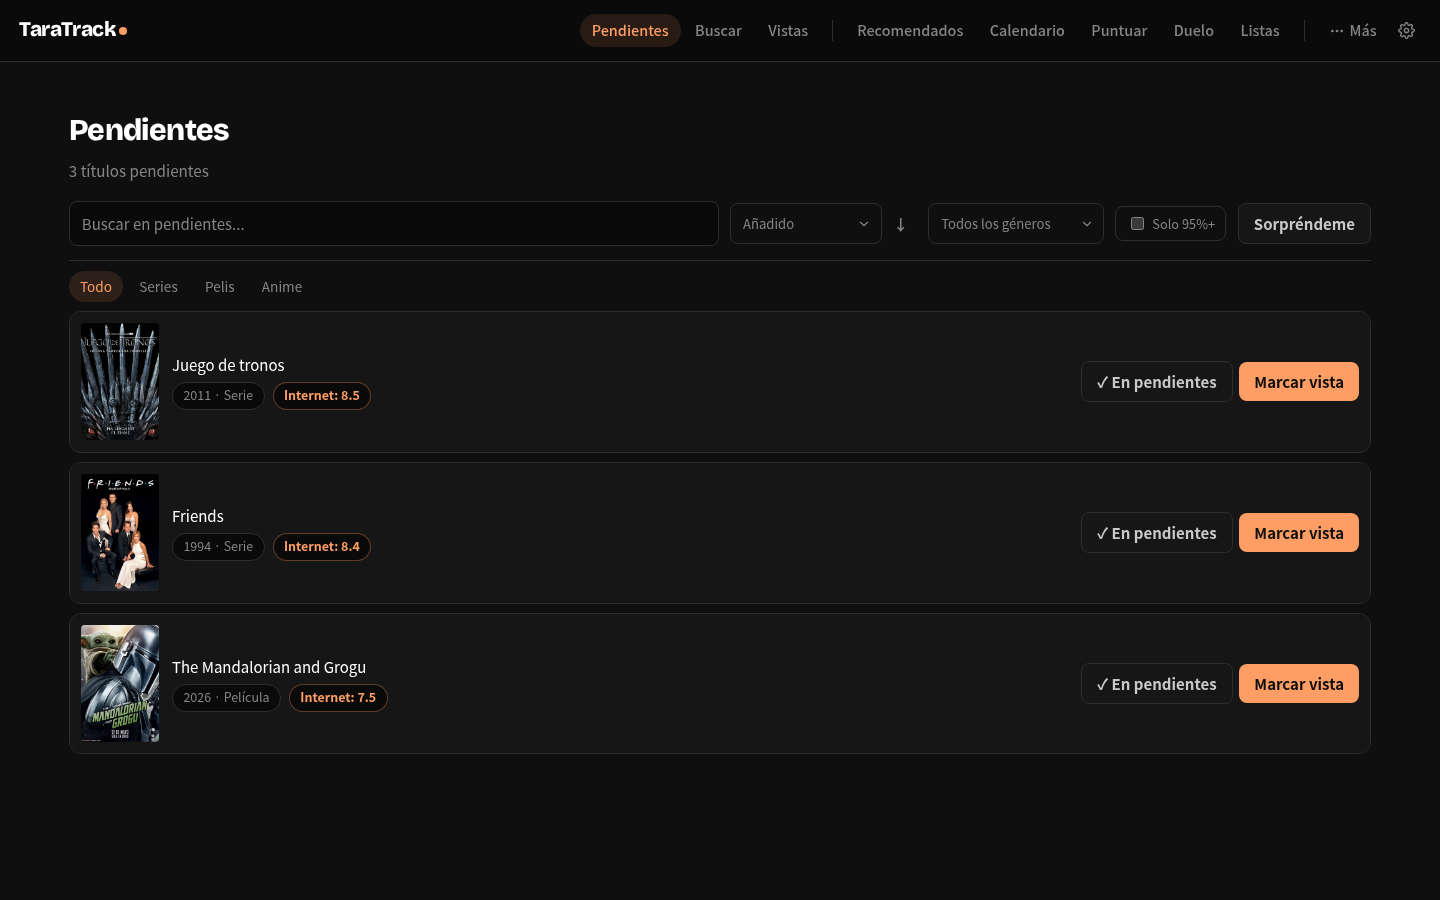
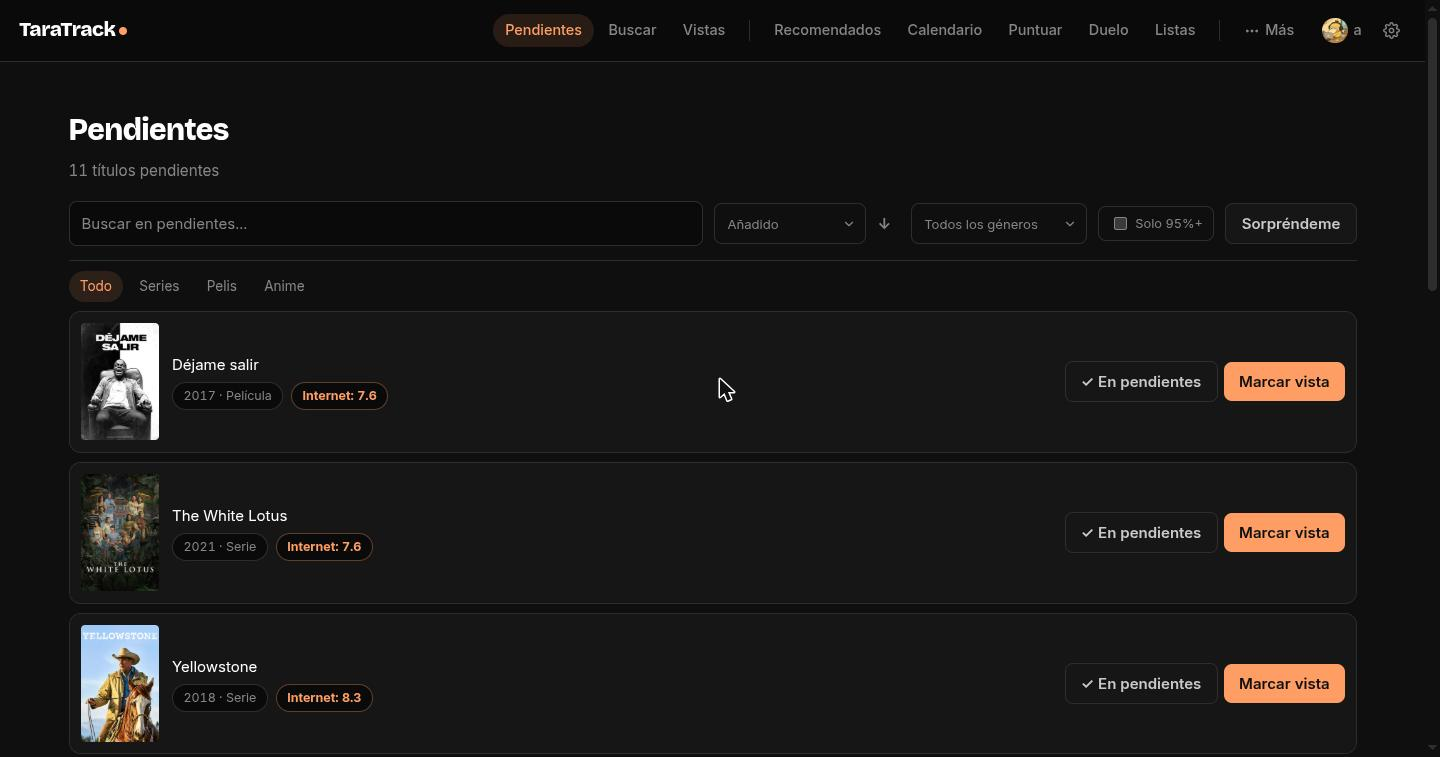
Readme ahora si que si pulido

diff --git a/README.md b/README.md
@@ -4,17 +4,18 @@
 
 No intenta ser otra base de datos de títulos: intenta entender qué te apetece de verdad, no solo qué has visto.
 
-Tracker personal autoalojado, sustituto propio de Trakt/TV Time — mi segundo proyecto de este verano (el primero fue [TarArch](https://github.com/Tara7ara/TarArch), mi escritorio Linux), en desarrollo activo desde hace varios meses. El historial de commits de este repo es reciente porque lo publico ahora, no porque se haya hecho en un día. FastAPI + Jinja2 + htmx + SQLite, server-rendered, sin build step de frontend.
+Tracker personal autoalojado, sustituto propio de Trakt/TV Time. FastAPI + Jinja2 + htmx + SQLite, server-rendered, sin build step de frontend.
 
 Los metadatos vienen de TMDB (y de Jikan/AniList para anime), pero en la base de datos solo se guarda lo que realmente sigues: lo pendiente, lo visto, tus notas, tus listas y tus personajes favoritos.
 
 ## Capturas
 
-_(biblioteca de ejemplo, no la real — ver "Índice de afinidad" más abajo para lo interesante de verdad)_
+_(biblioteca de ejemplo; no contiene datos personales)_
 
 ![Pendientes](screenshots/pendientes.png)
 ![Vistas](screenshots/vistas.png)
-![Perfil de gustos](screenshots/perfil-gustos.png)
+![Estadísticas](screenshots/estadisticas.png)
+![Duelo, con el fallback a toda la biblioteca en una cuenta sin anime](screenshots/duelo.png)
 
 ## Hecho para usarlo cada día
 
@@ -23,7 +24,7 @@ _(biblioteca de ejemplo, no la real — ver "Índice de afinidad" más abajo par
 - **Calendario de temporada con predicción propia**: todo el anime de la temporada, con un "% que te va a gustar" calculado desde tus notas — nunca desde la nota media de la crítica.
 - **Ranking por duelos con Glicko**, no un Elo de toda la vida: cada elemento lleva su propia incertidumbre, así que el ranking se afina más rápido con menos duelos.
 - **Multiusuario real**: cuentas aisladas de verdad, no una contraseña compartida con un "modo invitado".
-- **Autoalojado y privado**: tus datos no salen de tu servidor — TMDB/AniList/Jikan solo se consultan para traer metadatos.
+- **Autoalojado y privado**: tus datos personales no salen de tu servidor — TMDB/AniList/Jikan solo se consultan para traer metadatos.
 
 ## Arrancar en local
 
@@ -48,7 +49,7 @@ ruff check .
 
 - **Puntuación por categorías**: un "examen" corto (Historia, Animación, Personajes, Música, Disfrute) con pesos distintos por categoría en vez de un número suelto.
 - **Calendario semanal** estilo Trakt, con sincronización automática cada 12 h.
-- **"Volver a ver" sin perder nada**: sigues pudiendo ver cuándo lo viste la primera vez aunque lo estés reviendo.
+- **Listas ilimitadas**, con orden manual o por duelos (mismo motor Glicko que el ranking general).
 - **Autover**: series de muchos episodios que sigues sin pensarlo se marcan vistas solas.
 - **Personajes de anime reales, no actores**: para anime se tira de AniList/Jikan en vez del reparto de TMDB.
 - **Resumen anual** tipo "wrapped" y **discrepancias con la crítica** (tu nota vs. Internet).
@@ -85,7 +86,7 @@ Varias cuentas reales en la misma instancia (pensado para 2-3 personas de confia
 ## Privacidad y límites
 
 - Los datos se quedan en tu instancia; TMDB/AniList/Jikan se usan solo para consultar metadatos, nunca reciben tus notas ni tu biblioteca.
-- No está diseñado como SaaS público multi-tenant — el autoregistro presupone que ya estás detrás de una red privada (VPN, LAN), no está pensado como puerta de entrada abierta a Internet.
+- Está pensado para una instancia privada compartida con pocas personas, no para abrir registros en Internet — el autoregistro presupone que ya estás detrás de una red privada (VPN, LAN).
 - La sesión es una cookie firmada de larga duración (para no reintroducir la contraseña cada dos por tres); "Cerrar sesión" en Ajustes la borra.
 - Haz backup del volumen de datos y de los de imágenes si despliegas con Docker — ver [`docs/architecture.md`](docs/architecture.md).
 
@@ -99,7 +100,7 @@ Tema único, oscuro — paleta propia "Warm Dark" con tres capas de profundidad 
 
 ## Estado
 
-En desarrollo activo, uso personal diario. Licencia MIT. Issues y PRs bienvenidos — para cambios grandes, mejor abrir una issue antes para hablarlo. Los metadatos de series/películas/anime son de [TMDB](https://www.themoviedb.org/) (This product uses the TMDB API but is not endorsed or certified by TMDB), [AniList](https://anilist.co/) y [Jikan](https://jikan.moe/) (MyAnimeList).
+En desarrollo activo, uso personal diario desde hace varios meses — el historial de commits de este repo es reciente porque se publica ahora, no porque se haya hecho en un día. Es mi segundo proyecto de este verano (el primero fue [TarArch](https://github.com/Tara7ara/TarArch), mi escritorio Linux). Licencia MIT. Issues y PRs bienvenidos — para cambios grandes, mejor abrir una issue antes para hablarlo. Los metadatos de series/películas/anime son de [TMDB](https://www.themoviedb.org/) (This product uses the TMDB API but is not endorsed or certified by TMDB), [AniList](https://anilist.co/) y [Jikan](https://jikan.moe/) (MyAnimeList).
 
 ## Más detalle
 
